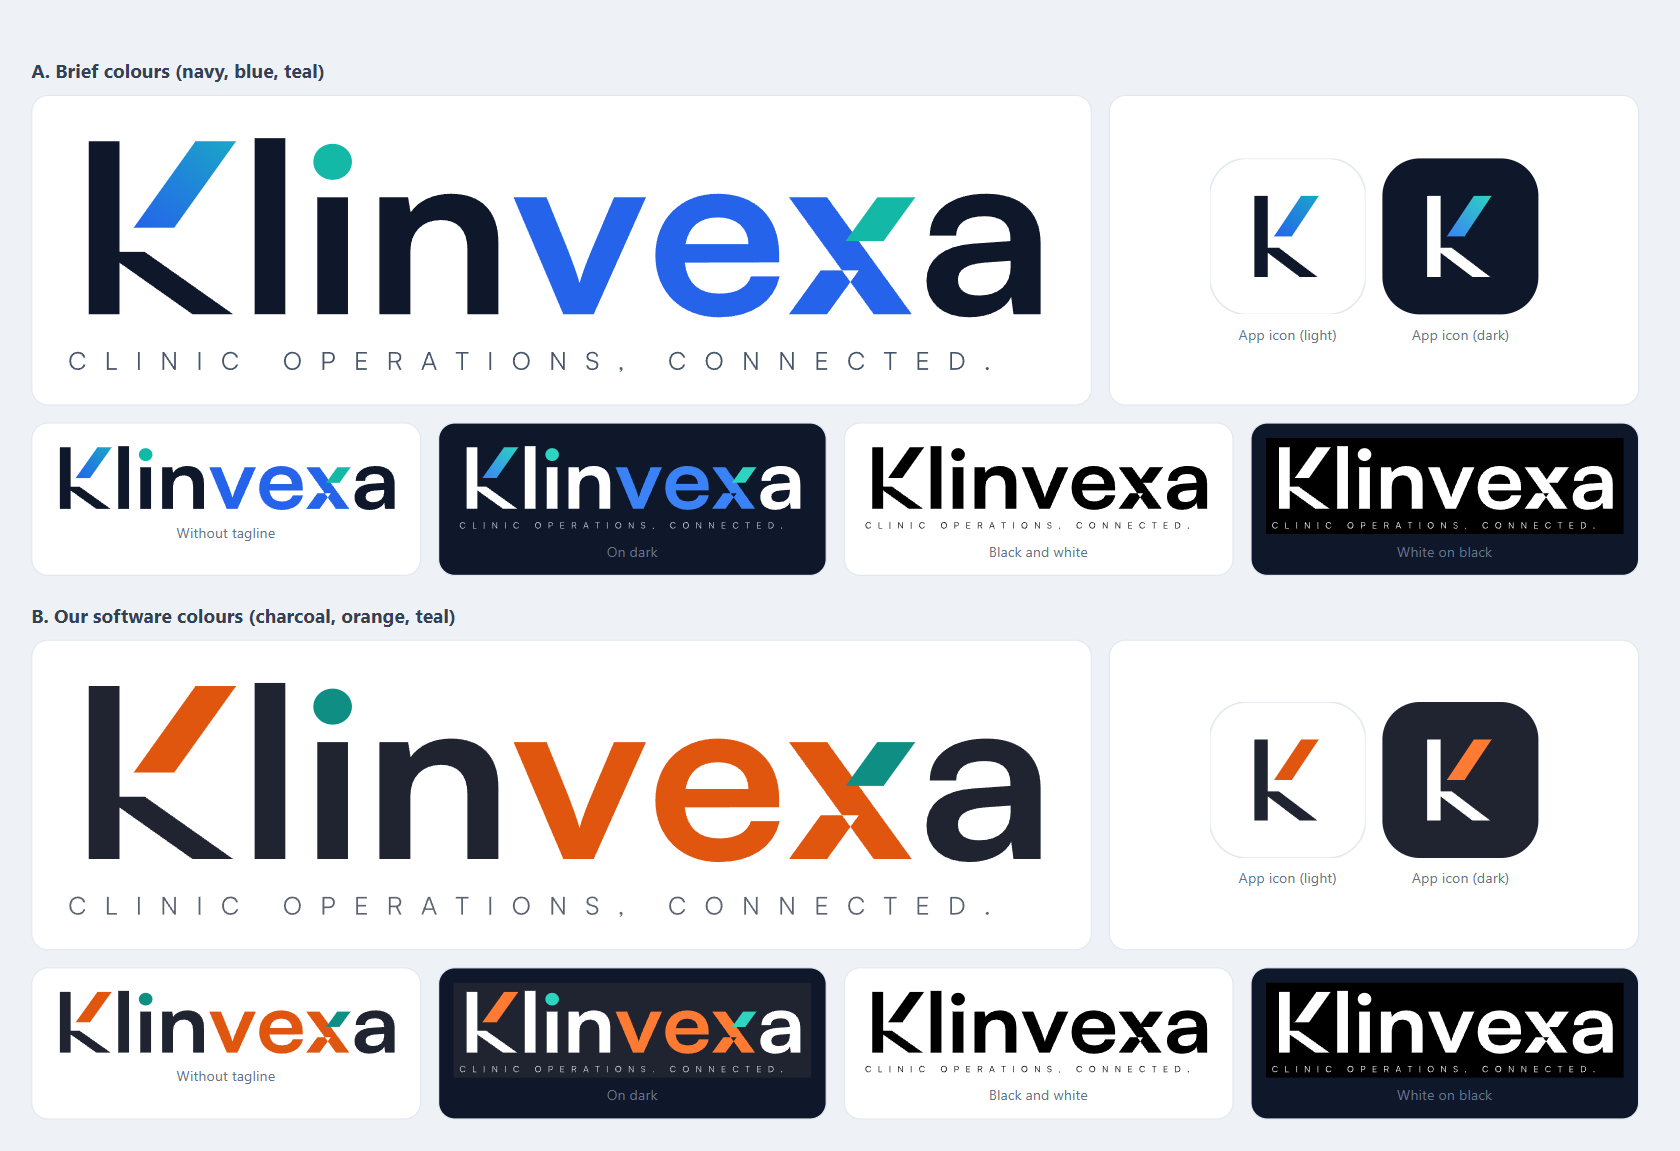
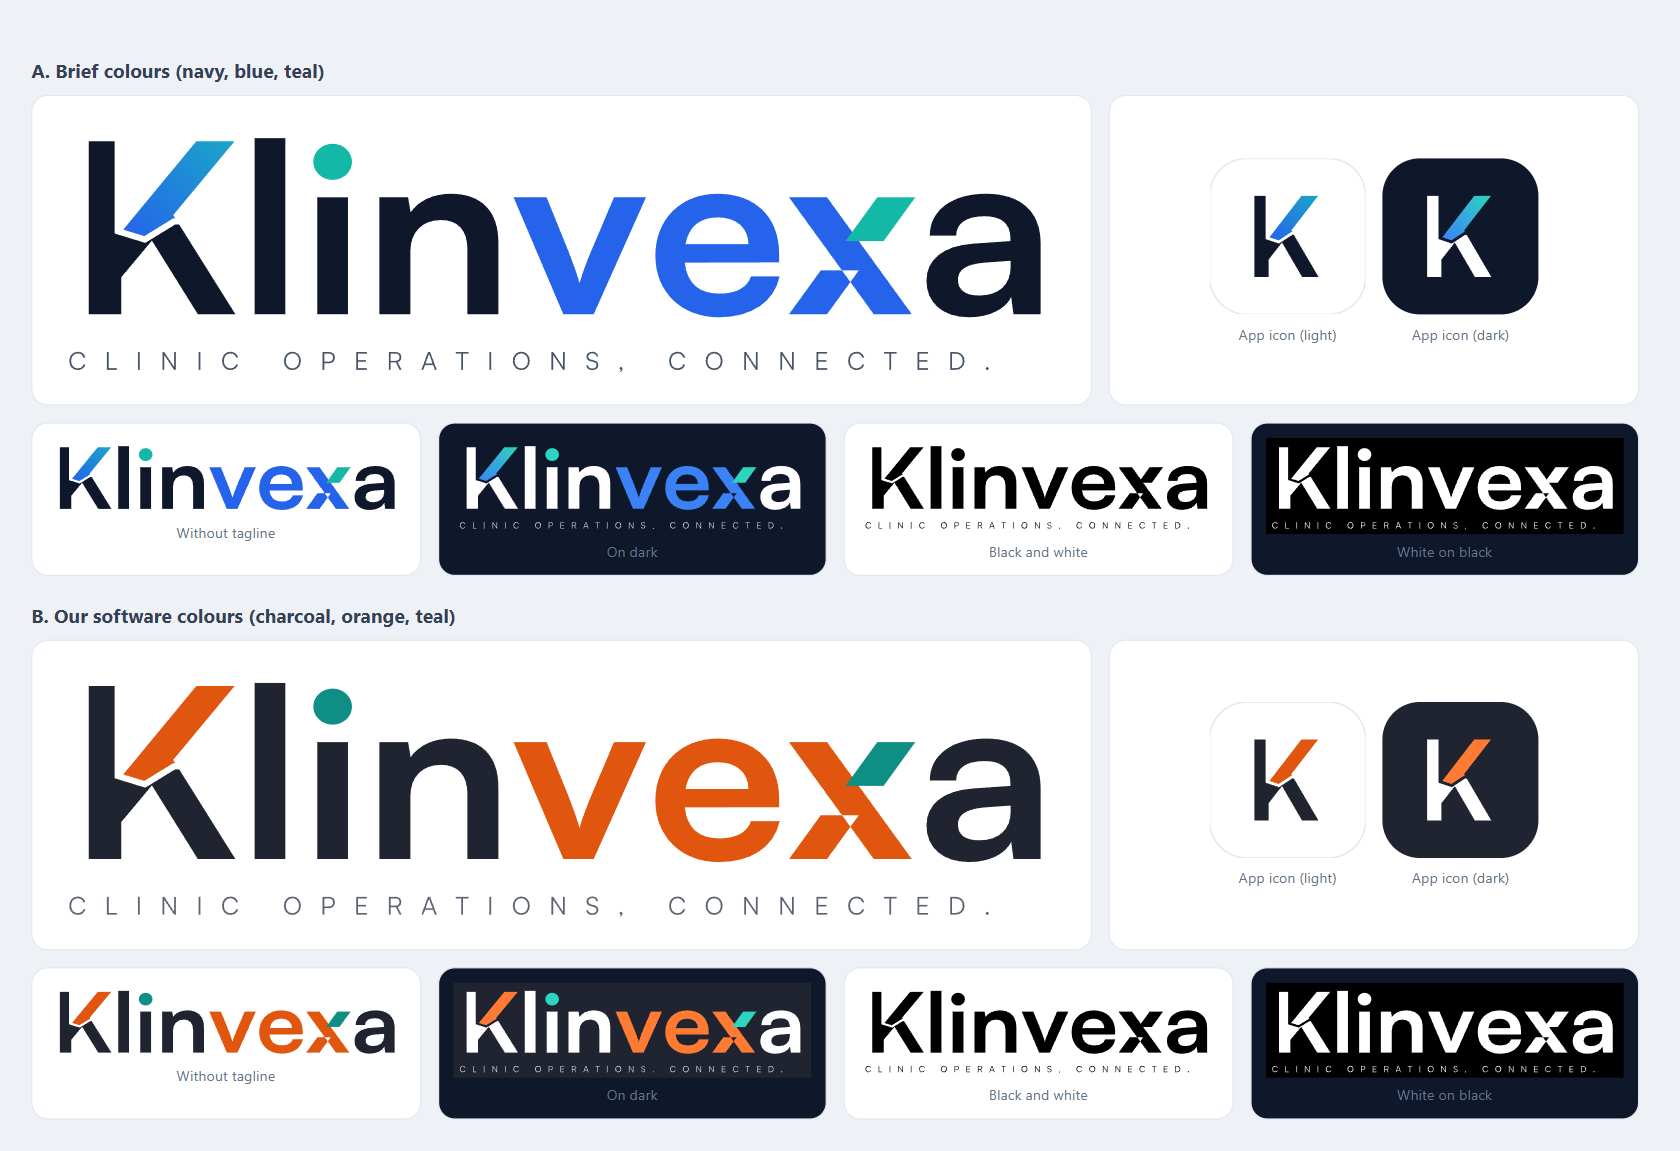
Klinvexa: proper K (Satoshi K with the upper arm cut away by one clean diagonal gap), rebuilt all versions

diff --git a/brand/klinvexa/build_reference.py b/brand/klinvexa/build_reference.py
@@ -59,13 +59,27 @@ def shift(path, dx):
     return re.sub(r"([ML])(-?[0-9.]+) (-?[0-9.]+)", lambda m: f"{m.group(1)}{float(m.group(2)) + dx:.1f} {m.group(3)}", path)
 
 
-def k_parts(x):
-    """K: stem + leg (dark) and the upper arm cut away from the stem (arm colour). Returns (dark, arm)."""
-    w, sx = 160, x + 81 + STEM
-    stem = f"M{x + 81} 0V{-CAP}H{sx}V0Z"
-    leg = bar(sx - 60, CAP * 0.36, x + 650 - w, 0, w)
-    arm = bar(sx + 56, CAP * 0.50, x + 662 - w, CAP, w)
-    return stem + leg, arm
+def _poly_d(poly):
+    from shapely.geometry import Polygon  # noqa: F401  (the pieces are plain polygons)
+    out = ""
+    for g in getattr(poly, "geoms", [poly]):
+        if g.geom_type != "Polygon" or g.area < 50:
+            continue
+        pts = list(g.exterior.coords)[:-1]
+        out += "M" + "L".join(f"{px:.1f} {-py:.1f}" for px, py in pts) + "Z"
+    return out
+
+
+def k_parts(x, gap=26):
+    """The K is Satoshi's own K, with its upper arm cut away from the rest by a thin even gap (one clean diagonal cut).
+    Needs the 'shapely' package (only for building the logo). Returns (stem + leg, arm)."""
+    from shapely.geometry import Polygon
+
+    k = Polygon([(209, 731), (81, 731), (81, 0), (209, 0), (209, 156), (330, 311), (511, 0), (659, 0), (414, 419),
+                 (656, 731), (505, 731), (209, 347)])
+    # the area of the arm, with the cut line running from the stem, over the elbow, to the right
+    arm_area = Polygon([(209, 360), (300, 330), (414, 405), (760, 405), (760, 800), (209, 800)])
+    return shift(_poly_d(k.difference(arm_area.buffer(gap, join_style=2))), x), shift(_poly_d(k.intersection(arm_area)), x)
 
 
 def i_parts(x):
